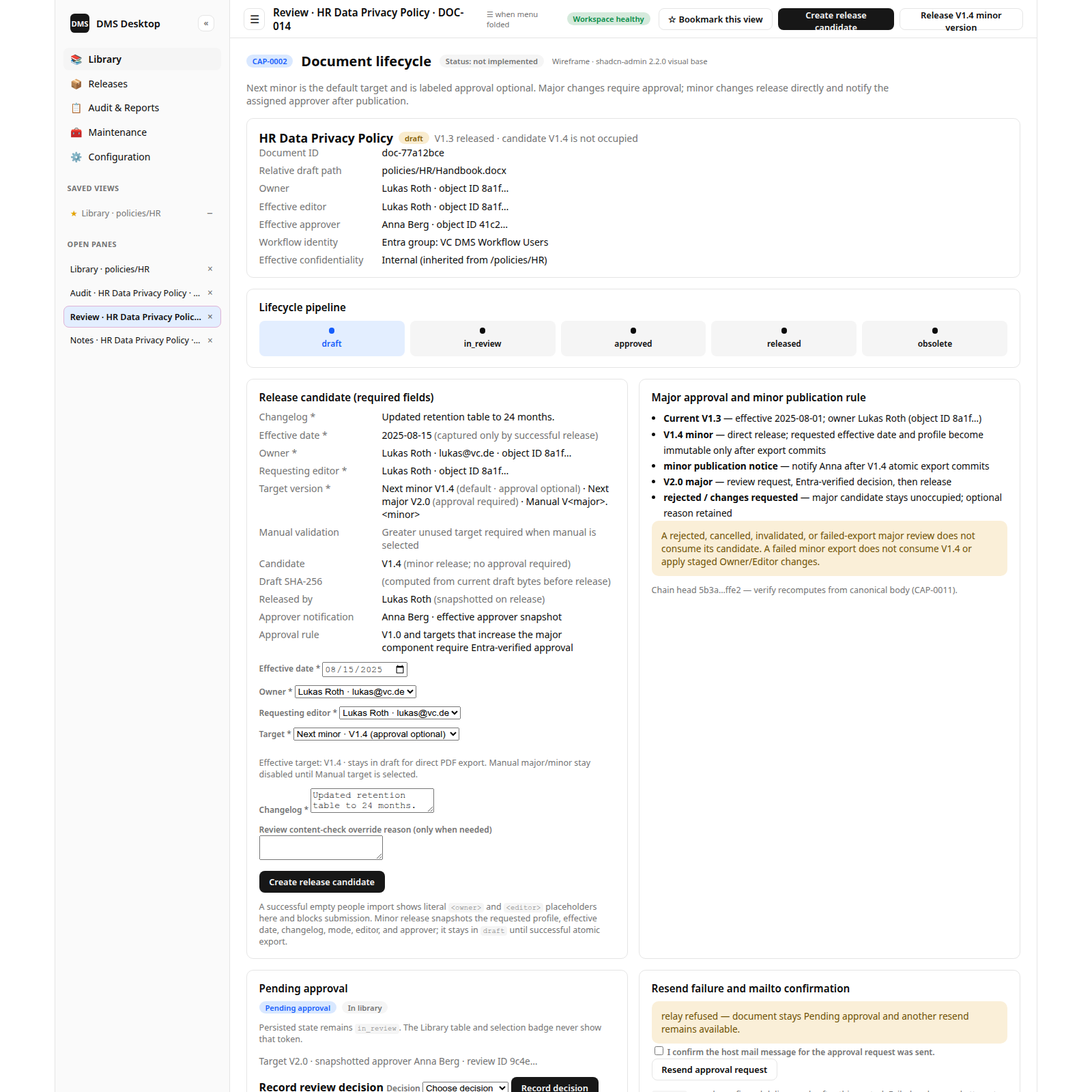
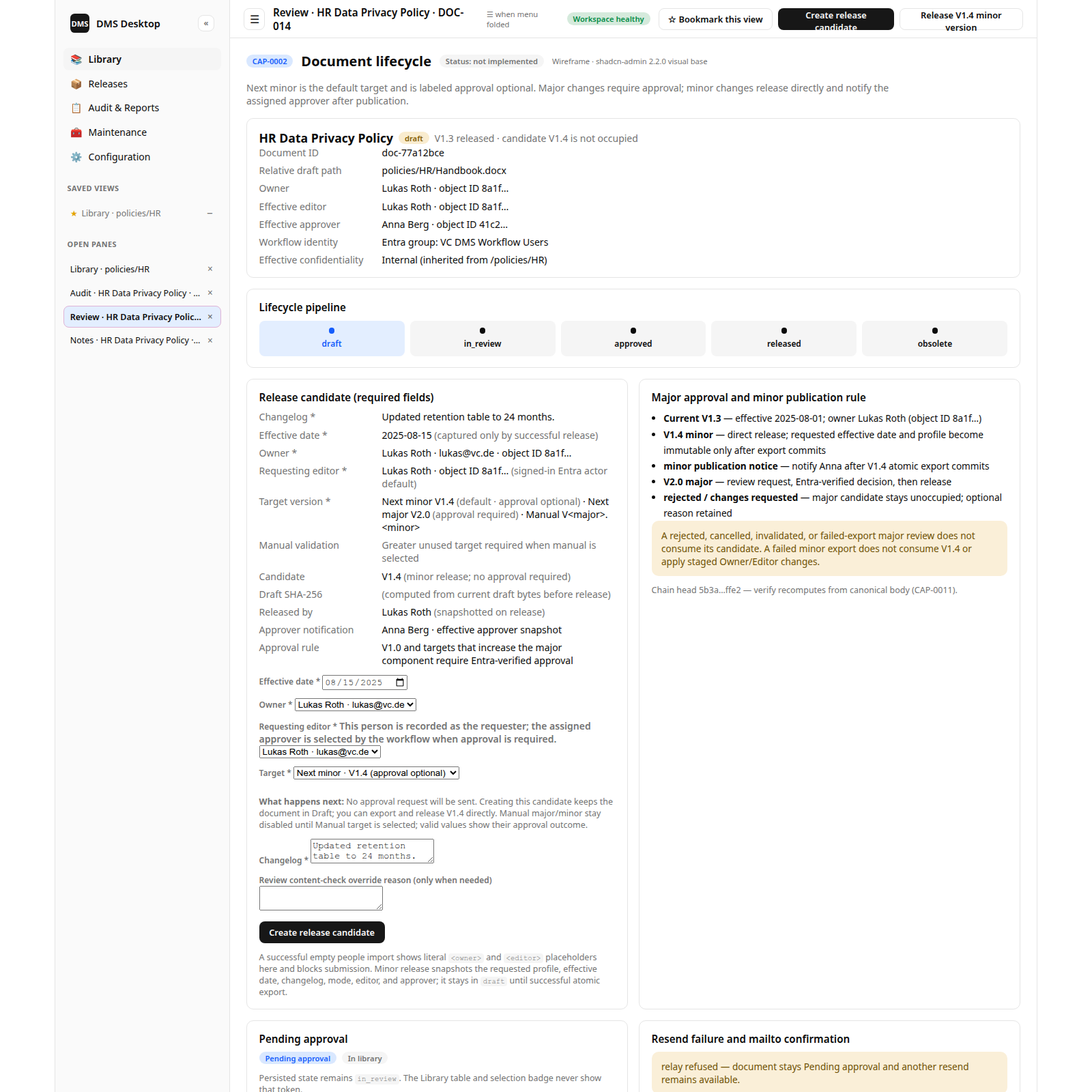
docs(product): clarify candidate and release evidence

Changed region(s): [[0.2188, 0.4062, 0.5625, 1.0], [0.5938, 0.875, 0.9375, 1.0]]

diff --git a/docs/product/wireframes/html/CAP-0002-document-lifecycle.html b/docs/product/wireframes/html/CAP-0002-document-lifecycle.html
@@ -304,13 +304,13 @@ tr:last-child td { border-bottom: 0; }
       <div class="grid-2">
         <section class="card">
           <h3 class="card-title">Release candidate (required fields)</h3>
-          <dl class="kv"><div><dt>Changelog *</dt><dd>Updated retention table to 24 months.</dd></div><div><dt>Effective date *</dt><dd>2025-08-15 <span class="muted">(captured only by successful release)</span></dd></div><div><dt>Owner *</dt><dd>Lukas Roth · lukas@vc.de · object ID 8a1f…</dd></div><div><dt>Requesting editor *</dt><dd>Lukas Roth · object ID 8a1f…</dd></div><div><dt>Target version *</dt><dd>Next minor V1.4 <span class="muted">(default · approval optional)</span> · Next major V2.0 <span class="muted">(approval required)</span> · Manual V&lt;major&gt;.&lt;minor&gt;</dd></div><div><dt>Manual validation</dt><dd><span class="muted">Greater unused target required when manual is selected</span></dd></div><div><dt>Candidate</dt><dd>V1.4 <span class="muted">(minor release; no approval required)</span></dd></div><div><dt>Draft SHA-256</dt><dd><span class="muted">(computed from current draft bytes before release)</span></dd></div><div><dt>Released by</dt><dd>Lukas Roth <lukas@vc.de> <span class="muted">(snapshotted on release)</span></dd></div><div><dt>Approver notification</dt><dd>Anna Berg <anna@vc.de> · effective approver snapshot</dd></div><div><dt>Approval rule</dt><dd>V1.0 and targets that increase the major component require Entra-verified approval</dd></div></dl>
+          <dl class="kv"><div><dt>Changelog *</dt><dd>Updated retention table to 24 months.</dd></div><div><dt>Effective date *</dt><dd>2025-08-15 <span class="muted">(captured only by successful release)</span></dd></div><div><dt>Owner *</dt><dd>Lukas Roth · lukas@vc.de · object ID 8a1f…</dd></div><div><dt>Requesting editor *</dt><dd>Lukas Roth · object ID 8a1f… <span class="muted">(signed-in Entra actor default)</span></dd></div><div><dt>Target version *</dt><dd>Next minor V1.4 <span class="muted">(default · approval optional)</span> · Next major V2.0 <span class="muted">(approval required)</span> · Manual V&lt;major&gt;.&lt;minor&gt;</dd></div><div><dt>Manual validation</dt><dd><span class="muted">Greater unused target required when manual is selected</span></dd></div><div><dt>Candidate</dt><dd>V1.4 <span class="muted">(minor release; no approval required)</span></dd></div><div><dt>Draft SHA-256</dt><dd><span class="muted">(computed from current draft bytes before release)</span></dd></div><div><dt>Released by</dt><dd>Lukas Roth <lukas@vc.de> <span class="muted">(snapshotted on release)</span></dd></div><div><dt>Approver notification</dt><dd>Anna Berg <anna@vc.de> · effective approver snapshot</dd></div><div><dt>Approval rule</dt><dd>V1.0 and targets that increase the major component require Entra-verified approval</dd></div></dl>
           <form class="stack" style="margin-top:0.75rem">
             <label class="label">Effective date * <input type="date" value="2025-08-15" required></label>
             <label class="label">Owner * <select required><option value="8a1f">Lukas Roth · lukas@vc.de</option><option value="41c2">Anna Berg · anna@vc.de</option></select></label>
-            <label class="label">Requesting editor * <select required><option value="8a1f">Lukas Roth · lukas@vc.de</option></select></label>
+            <label class="label">Requesting editor * <small class="muted">This person is recorded as the requester; the assigned approver is selected by the workflow when approval is required.</small> <select required><option value="">Choose requesting editor</option><option value="8a1f" selected>Lukas Roth · lukas@vc.de</option></select></label>
             <label class="label">Target * <select required><option value="next_minor" selected>Next minor · V1.4 (approval optional)</option><option value="next_major">Next major · V2.0 (approval required)</option><option value="manual">Manual target</option></select></label>
-            <p class="hint">Effective target: V1.4 · stays in draft for direct PDF export. Manual major/minor stay disabled until Manual target is selected.</p>
+            <p class="hint"><strong>What happens next:</strong> No approval request will be sent. Creating this candidate keeps the document in Draft; you can export and release V1.4 directly. Manual major/minor stay disabled until Manual target is selected; valid values show their approval outcome.</p>
             <label class="label">Changelog * <textarea required>Updated retention table to 24 months.</textarea></label>
             <label class="label">Review content-check override reason (only when needed) <textarea></textarea></label>
             <div class="row gap-2" style="flex-wrap:wrap"><button class="btn">Create release candidate</button></div>

diff --git a/docs/product/wireframes/html/CAP-0006-library-explorer.html b/docs/product/wireframes/html/CAP-0006-library-explorer.html
@@ -492,8 +492,8 @@ tr:last-child td { border-bottom: 0; }
         <strong>Create release candidate</strong>
         <label class="label">Effective date * <input type="date" value="2025-08-15" required></label>
         <label class="label">Target * <select><option value="next_minor" selected>Next minor · V1.4 (approval optional)</option><option value="next_major">Next major · V2.0 (approval required)</option><option value="manual">Manual target</option></select></label>
-        <p class="hint">Effective target: V1.4 · stays in draft for direct PDF export. Manual major/minor stay disabled until Manual target is selected.</p>
-        <label class="label">Requesting editor * <select><option value="8a1f">Lukas Roth · lukas@vc.de</option></select></label>
+        <p class="hint"><strong>What happens next:</strong> No approval request will be sent. Creating this candidate keeps the document in Draft; you can export and release V1.4 directly. Manual major/minor stay disabled until Manual target is selected; valid values show their approval outcome.</p>
+        <label class="label">Requesting editor * <small class="muted">This person is recorded as the requester; the assigned approver is selected by the workflow when approval is required.</small> <select><option value="">Choose requesting editor</option><option value="8a1f" selected>Lukas Roth · lukas@vc.de</option></select></label>
         <label class="label">Changelog * <textarea required>Updated retention table to 24 months.</textarea></label>
         <label class="label">Review content-check override reason (only when needed) <textarea></textarea></label>
         <button class="btn">Create release candidate</button>
@@ -531,7 +531,8 @@ tr:last-child td { border-bottom: 0; }
     <details class="selection-section" open>
       <summary><span class="selection-section-title">Releases</span><span class="selection-section-meta">4 recorded</span></summary>
       <div class="selection-section-body stack">
-        <dl class="kv"><div><dt>Current released PDF</dt><dd>V1.3 · policies/HR/…_V1.3_internal.pdf</dd></div><div><dt>Effective date</dt><dd>2025-08-01</dd></div><div><dt>Captured title</dt><dd>HR Data Privacy Policy</dd></div><div><dt>Captured owner</dt><dd>Lukas Roth · object ID 8a1f…</dd></div><div><dt>Draft</dt><dd><span class="badge warn">newer than last release</span></dd></div></dl>
+        <h4 class="card-title" style="margin:0">Immutable release snapshot</h4>
+        <dl class="kv"><div><dt>Current released PDF</dt><dd>V1.3 · policies/HR/…_V1.3_internal.pdf</dd></div><div><dt>Effective date</dt><dd>2025-08-01</dd></div><div><dt>Captured title</dt><dd>HR Data Privacy Policy</dd></div><div><dt>Owner at release</dt><dd>Lukas Roth · object ID 8a1f…</dd></div><div><dt>Requested by</dt><dd>Lukas Roth · object ID 8a1f…</dd></div><div><dt>Responsible editor at release</dt><dd>Lukas Roth · object ID 8a1f…</dd></div><div><dt>Approval</dt><dd>Approved by Anna Berg · object ID 41c2…</dd></div><div><dt>Draft</dt><dd><span class="badge warn">newer than last release</span></dd></div></dl>
         <button class="btn outline">Open latest released PDF</button>
         <div class="ver"><div class="row gap-2"><strong>V1.3</strong><span class="badge ok">current</span></div><p class="muted">effective 2025-08-01 · released 2025-08-01 09:44 UTC · owner 8a1f…</p><p>Substantive / major</p></div>
         <div class="ver"><div class="row gap-2"><strong>V1.2</strong><span class="badge muted">superseded</span></div><p class="muted">effective 2025-07-12 · released 2025-07-12 12:01 UTC</p><p>Cosmetic / minor</p></div>

diff --git a/docs/product/wireframes/html/CAP-0015-document-control-data.html b/docs/product/wireframes/html/CAP-0015-document-control-data.html
@@ -399,8 +399,8 @@ tr:last-child td { border-bottom: 0; }
         <strong>Create release candidate</strong>
         <label class="label">Effective date * <input type="date" value="2025-08-15" required></label>
         <label class="label">Target * <select><option value="next_minor" selected>Next minor · V1.4 (approval optional)</option><option value="next_major">Next major · V2.0 (approval required)</option><option value="manual">Manual target</option></select></label>
-        <p class="hint">Effective target: V1.4 · stays in draft for direct PDF export. Manual major/minor stay disabled until Manual target is selected.</p>
-        <label class="label">Requesting editor * <select><option value="8a1f">Lukas Roth · lukas@vc.de</option></select></label>
+        <p class="hint"><strong>What happens next:</strong> No approval request will be sent. Creating this candidate keeps the document in Draft; you can export and release V1.4 directly. Manual major/minor stay disabled until Manual target is selected; valid values show their approval outcome.</p>
+        <label class="label">Requesting editor * <small class="muted">This person is recorded as the requester; the assigned approver is selected by the workflow when approval is required.</small> <select><option value="">Choose requesting editor</option><option value="8a1f" selected>Lukas Roth · lukas@vc.de</option></select></label>
         <label class="label">Changelog * <textarea required>Updated retention table to 24 months.</textarea></label>
         <label class="label">Review content-check override reason (only when needed) <textarea></textarea></label>
         <button class="btn">Create release candidate</button>
@@ -438,7 +438,8 @@ tr:last-child td { border-bottom: 0; }
     <details class="selection-section" open>
       <summary><span class="selection-section-title">Releases</span><span class="selection-section-meta">4 recorded</span></summary>
       <div class="selection-section-body stack">
-        <dl class="kv"><div><dt>Current released PDF</dt><dd>V1.3 · policies/HR/…_V1.3_internal.pdf</dd></div><div><dt>Effective date</dt><dd>2025-08-01</dd></div><div><dt>Captured title</dt><dd>HR Data Privacy Policy</dd></div><div><dt>Captured owner</dt><dd>Lukas Roth · object ID 8a1f…</dd></div><div><dt>Draft</dt><dd><span class="badge warn">newer than last release</span></dd></div></dl>
+        <h4 class="card-title" style="margin:0">Immutable release snapshot</h4>
+        <dl class="kv"><div><dt>Current released PDF</dt><dd>V1.3 · policies/HR/…_V1.3_internal.pdf</dd></div><div><dt>Effective date</dt><dd>2025-08-01</dd></div><div><dt>Captured title</dt><dd>HR Data Privacy Policy</dd></div><div><dt>Owner at release</dt><dd>Lukas Roth · object ID 8a1f…</dd></div><div><dt>Requested by</dt><dd>Lukas Roth · object ID 8a1f…</dd></div><div><dt>Responsible editor at release</dt><dd>Lukas Roth · object ID 8a1f…</dd></div><div><dt>Approval</dt><dd>Approved by Anna Berg · object ID 41c2…</dd></div><div><dt>Draft</dt><dd><span class="badge warn">newer than last release</span></dd></div></dl>
         <button class="btn outline">Open latest released PDF</button>
         <div class="ver"><div class="row gap-2"><strong>V1.3</strong><span class="badge ok">current</span></div><p class="muted">effective 2025-08-01 · released 2025-08-01 09:44 UTC · owner 8a1f…</p><p>Substantive / major</p></div>
         <div class="ver"><div class="row gap-2"><strong>V1.2</strong><span class="badge muted">superseded</span></div><p class="muted">effective 2025-07-12 · released 2025-07-12 12:01 UTC</p><p>Cosmetic / minor</p></div>

diff --git a/docs/changes/active/CHG-0038-candidate-approval-outcome-clarity.md b/docs/changes/active/CHG-0038-candidate-approval-outcome-clarity.md
@@ -9,12 +9,12 @@ Make the Library candidate form state, for the currently selected target, whethe
 **Entry checkpoint:** CHG-0035 Phase 3 evidence proves bound desktop mutations receive the cached verified Entra actor and bound `WorkspaceSummary.change_author` presents that tenant/object identity without exposing credentials.
 **Context sources:** `AGENTS.md` (Architectural decisions, Application records); `docs/AGENTS.md` (Local Contracts, Work Guidance); `docs/changes/AGENTS.md`; `docs/product/AGENTS.md`; `docs/product/wireframes/AGENTS.md`; `docs/product/capabilities/CAP-0002-document-lifecycle.md` (Outcome 4); `docs/product/capabilities/CAP-0006-library-explorer.md` (Outcome 6); `docs/product/capabilities/CAP-0011-approval-evidence.md` (Outcomes 1, 6); `docs/product/capabilities/CAP-0015-document-control-data.md` (Outcome 11, 14); `docs/product/capabilities/CAP-0021-microsoft-entra-workflow-identity.md` (Operational details 1, 10); `docs/changes/archive/CHG-0035-entra-session-required-for-group-bound-library.md` (Phase 3); `docs/changes/archive/CHG-0017-candidate-approval-copy.md`; `crates/AGENTS.md`; `crates/dms-desktop/AGENTS.md` (Local Contracts); `crates/dms-core/src/lifecycle.rs` (`ReleaseRecord`); `crates/dms-desktop/src/lib.rs` (`CurrentReleaseSelection`, `ReleaseProfileSelection`, `document_selection`); `crates/dms-desktop/ui/library.mjs` (`candidateTargetHelpText`, `syncCandidateTargetForm`, `externalLifecycleMarkup`, release snapshot markup); `crates/dms-desktop/ui/library.test.mjs`; `docs/product/wireframes/generate.mjs` (CAP-0002, CAP-0006, and CAP-0015 selection/candidate forms)
 **Produces:** A target-sensitive candidate form whose outcome text distinguishes direct-release candidates from approval-request candidates, whose requester picker cannot be mistaken for the approval target, whose verified Entra actor is preselected by immutable object ID without fuzzy identity matching, and whose Releases pane names immutable release-time workflow identities without substituting current roles.
-**Status:** in-progress — Phase 1 done; Phase 2 pending.
+**Status:** in-progress — Phase 1 done (`c75dbe9`); Phase 2 done; Phase 3 pending.
 
 | Field | Value |
 | --- | --- |
 | ID | CHG-0038 |
-| Status | in-progress — Phase 1 done; Phase 2 pending |
+| Status | in-progress — Phase 1 done (`c75dbe9`); Phase 2 done; Phase 3 pending |
 | External request | Direct operator request: "Creating a next minor version, where an approval would be optional, is not clear from UI perspective, if a approval process will be started by pressing \"Create release condidate\". The first \"Requesting editor\" drop-down element is called \"Choose person\" and could be e.g. renamed to \"Choose person for review (approval)\" or something similar. If you have a better sugesstion make the proposal." |
 | Affected CAPs | CAP-0002, CAP-0006, CAP-0011, CAP-0015, CAP-0021 |
 | Decision records | none — approval-required target resolution, requester/approver identities, group-bound session identity, and delivery semantics already have durable contracts. |
@@ -61,7 +61,7 @@ The message must update when target mode or Manual major/minor inputs change. It
 | # | Phase | Status | Verification gate |
 | --- | --- | --- | --- |
 | 1 | Make candidate outcome, release identities, and Entra default explicit in the Library | done (`cargo test -p dms-desktop --lib` and `node --test crates/dms-desktop/ui/library.test.mjs` passed) | `node --test crates/dms-desktop/ui/library.test.mjs` exits 0, proving optional, required, first-release, and Manual outcome copy; **Choose requesting editor**; exact actor-ID preselection; editable explicit override; no fuzzy fallback; and distinct immutable release identities |
-| 2 | Publish the CAP contracts and matching candidate/release wireframes | pending | `node docs/product/wireframes/generate.mjs` and 1600×1600 headless-Chrome renders of CAP-0002, CAP-0006, and CAP-0015 exit 0; generated screens contain the approved copy |
+| 2 | Publish the CAP contracts and matching candidate/release wireframes | done (`node generate.mjs` and 1600×1600 Chrome exports for CAP-0002, CAP-0006, and CAP-0015 passed; visual inspection passed) | `node docs/product/wireframes/generate.mjs` and 1600×1600 headless-Chrome renders of CAP-0002, CAP-0006, and CAP-0015 exit 0; generated screens contain the approved copy |
 | 3 | Run the workspace gate and close the change record | pending | `cargo fmt --all -- --check`, `cargo clippy --workspace --all-targets -- -D warnings`, `cargo test --workspace`, `node --test crates/dms-desktop/ui/*.test.mjs`, Markdown-link check, and `git diff --check` all exit 0; CAP/CHG indexes agree and CHG-0038 is archived |
 
 Mark a phase `in-progress` while running it, `done (<evidence>)` once its gate passes, and `pending` otherwise.

diff --git a/docs/product/capabilities/CAP-0015-document-control-data.md b/docs/product/capabilities/CAP-0015-document-control-data.md
@@ -86,8 +86,8 @@
     approval but remain auditable. Effective date is not mutable profile data.
 11. The CAP-0006 selection pane and any expanded document-control-data form show
     mutable document profile, current released version (with its immutable
-    release-time profile, Owner snapshot, required candidate effective date, and
-    a recent release list
+    release-time profile, Owner, requester, responsible Editor, and approval
+    snapshots, required candidate effective date, and a recent release list
     when space allows),
     next review due (with **overdue** highlight when past due and not obsolete),
     lifecycle state, effective confidentiality with its source and
@@ -118,7 +118,12 @@
     navigation or the Actions summary. CAP-0006's
     bounded session splitter may widen this
     pane without changing its field rules, independent-scroll contract, or
-    persisted document data.
+    persisted document data. The Releases topic calls this group **Immutable
+    release snapshot** and labels its historical values **Owner at release**,
+    **Requested by**, **Responsible editor at release**, and **Approval**;
+    current effective Editor/Approver values never fill these fields. Missing
+    historic values are **Unrecorded**, and an approval-optional release is
+    **Not required**.
 12. Title, document type, a resolved eligible owner, and a candidate effective
     date are required before review submission.
     Document number, when set, is trimmed and case-insensitively unique across
@@ -143,9 +148,17 @@
     listed first when available, uses **Create release candidate** whether the
     selected target skips approval or opens review, always includes **Review
     content-check override reason (only when needed)**, shows the resolved
-    effective target version for Next minor / Next major / Manual, labels later
-    Next minor options **approval optional**, and keeps Manual major/minor
-    disabled unless Manual target is selected. **Version history & changes** is
+    effective target version for Next minor / Next major / Manual, and a
+    target-sensitive **What happens next** message: direct candidates stay Draft
+    without an approval request, while approval-required candidates start
+    approval and become Pending approval only after delivery succeeds. It labels
+    later Next minor options **approval optional**, keeps Manual major/minor
+    disabled unless Manual target is selected, and states that incomplete Manual
+    targets need valid values before their approval outcome is known. Its
+    **Requesting editor** picker uses **Choose requesting editor**, explains that
+    it records the requester rather than the workflow-selected approver, and may
+    preselect only an exact eligible immutable session-actor object ID while
+    remaining editable. **Version history & changes** is
     a separate foldable topic; it is not part of Revision cycle. There is no **Begin revision** action:
     Draft/Released follows CAP-0002 digest rules. These actions are not offered
     as multi-select batch actions unless a future CAP explicitly allows bulk

diff --git a/docs/product/capabilities/CAP-0002-document-lifecycle.md b/docs/product/capabilities/CAP-0002-document-lifecycle.md
@@ -40,14 +40,26 @@
    override reason (only when needed)** for both approval-optional and
    approval-required targets. The form defaults its
    target-version control to **Next minor** and always shows the **effective
-   target version** that the selected mode resolves to. After the first
+   target version** that the selected mode resolves to. A target-sensitive
+   **What happens next** message states either that no approval request will be
+   sent, the document remains Draft, and that target may be released directly,
+   or that approval is required, candidate creation starts approval, and the
+   document becomes Pending approval only after delivery succeeds. An incomplete
+   Manual target states that its approval outcome appears after valid values are
+   entered. After the first
    release, the Next minor option is labeled **approval optional**; Next major
    remains **approval required**. First-release Next minor stays
    `Next minor · V1.0 (first release)` because `V1.0` still requires approval.
    **Manual major** and
    **Manual minor** stay disabled until **Manual target** is selected. The first
-   release still resolves to `V1.0`. The requester identity and email are
-   snapshotted with the release candidate. The first release proposes `V1.0`.
+   release still resolves to `V1.0`. The **Requesting editor** picker records
+   the requester, not the approver: its empty state is **Choose requesting
+   editor** and it explains that workflow routing selects the approver when
+   required. In a group-bound library, it may preselect the verified session
+   actor only when that actor's immutable object ID exactly matches an eligible
+   person; the picker remains editable and never falls back to display name,
+   email, local OS user, or a local mapping. The requester identity and email
+   are snapshotted with the release candidate. The first release proposes `V1.0`.
    For every later release, the editor selects exactly one target-version mode:
    - **Minor version change** proposes the next minor version of the current
      release (`V1.3` → `V1.4`; never-released → `V1.0`).

diff --git a/crates/dms-desktop/AGENTS.md b/crates/dms-desktop/AGENTS.md
@@ -166,7 +166,13 @@ macOS.
   content-check override reason (only when needed)**, shows the resolved
   effective target version, labels later Next minor options **approval
   optional**, keeps Manual major/minor disabled until Manual target is
-  selected. **Version history & changes** owns the per-person, release-interval
+  selected. Its target-sensitive **What happens next** message states whether
+  submission starts approval or remains a direct Draft release path; incomplete
+  Manual values state that their approval outcome is not yet resolved. The
+  **Requesting editor** picker uses **Choose requesting editor**, explains that
+  it records the requester rather than the workflow-selected approver, and may
+  preselect only the exact eligible immutable object ID of the signed-in Entra
+  actor while remaining editable. **Version history & changes** owns the per-person, release-interval
   workflow evidence and its verification verdict; only its newest actor block
   starts expanded, while older actor blocks start folded. It is separate from
   Revision cycle. There is no **Begin revision** control: library
@@ -199,8 +205,11 @@ macOS.
 - Note mutations call `dms-core`, save the workspace metadata, retain failed
   form drafts for retry, and clear the composer only after a successful save.
 - The Releases pane lists every recorded release with its immutable title,
-  profile/owner snapshot, effective date, and verification status; legacy
-  omissions are visibly unrecorded rather than replaced by current metadata. It
+  profile/Owner, requester, responsible Editor, approver result, effective date,
+  and verification status. Its **Immutable release snapshot** labels Owner at
+  release, Requested by, Responsible editor at release, and Approval; direct
+  releases say Not required, and legacy omissions are visibly Unrecorded rather
+  than replaced by current metadata. It
   filters by captured title and exposes per-release and workspace-wide
   verification actions. It never edits, repairs, or replaces release bytes.
 - The Audit & Reports pane generates filtered CSV/PDF reports, lists report

diff --git a/docs/product/capabilities/CAP-0006-library-explorer.md b/docs/product/capabilities/CAP-0006-library-explorer.md
@@ -132,7 +132,11 @@
    - CAP-0015 **Document control data** and related status (mutable profile,
      immutable current-release profile and effective date, effective
      confidentiality with its source and inherited/overridden status, effective
-     editor/approver, current release, draft-newer marker)
+     editor/approver, current release, draft-newer marker). The **Releases**
+     topic labels its historical fields **Immutable release snapshot** and
+     distinguishes Owner at release, Requested by, Responsible editor at release,
+     and Approval from current effective routing; legacy omissions are
+     **Unrecorded** and direct releases state **Not required** for approval.
    - **document actions** for that selection
    CAP-0015 owns field rules and revision/obsolescence semantics; CAP-0006 owns
    navigation, selection, and pane placement. Its **Document control data**,

diff --git a/docs/product/capabilities/CAP-0011-approval-evidence.md b/docs/product/capabilities/CAP-0011-approval-evidence.md
@@ -58,7 +58,11 @@
 6. The event chain head is stored with each release record. An
    approval-required release additionally stores its approval-chain head so a
    downstream reader can confirm that the released version was the approved
-   revision; a minor release records no approval decision.
+   revision; a minor release records no approval decision. The Library Releases
+   summary derives **Approval** and its immutable requester/editor/approver
+   presentation from that release evidence, never from current workflow routing;
+   it states **Not required** for a direct release and **Unrecorded** for missing
+   historical evidence.
 7. Comment length, encoding, and disallowed characters are documented and
    enforced at entry. Comments are stored as UTF-8 text; line breaks are
    preserved. A line length limit applies for legibility (default 500

diff --git a/docs/product/capabilities/CAP-0021-microsoft-entra-workflow-identity.md b/docs/product/capabilities/CAP-0021-microsoft-entra-workflow-identity.md
@@ -193,7 +193,11 @@
     call cannot bypass this activation boundary. Unbound libraries retain local
     operator activation. A blocking library-session surface always returns to
     Set up workspace. An unverified tenant binding is remediable from that
-    surface by reapplying the identity source without activating the library.
+    surface by reapplying the identity source without activating the library. The
+   candidate form may use that process-session actor only as an editable
+   Requesting editor default when its immutable object ID exactly equals an
+   eligible-person picker option. It never substitutes a display name, email,
+   local OS identity, or persisted local-to-Entra mapping.
 
 ## Non-goals
 
